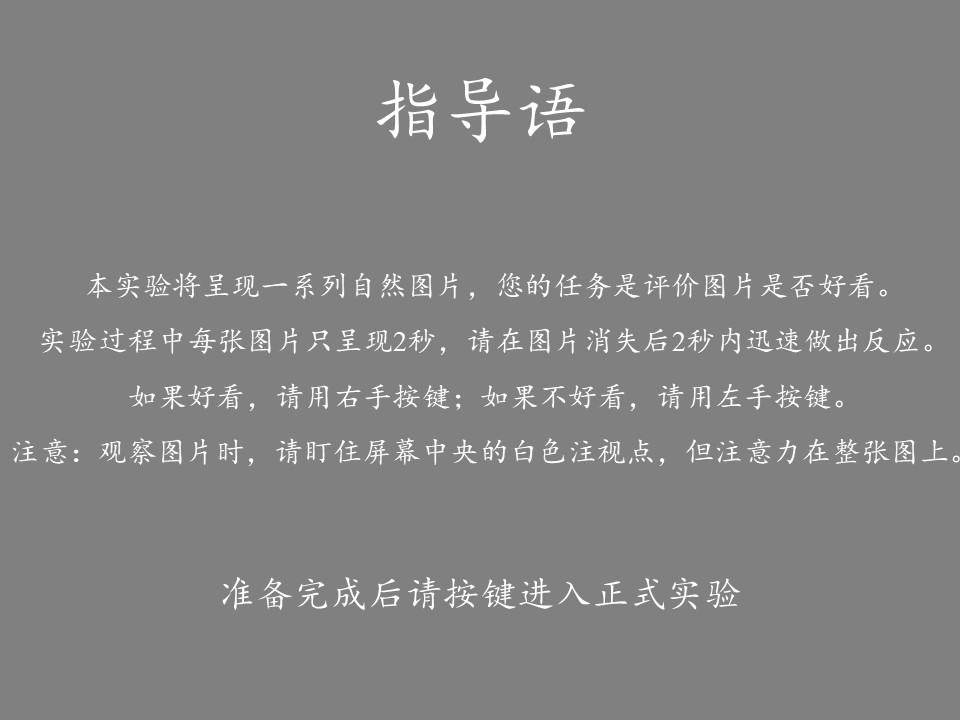
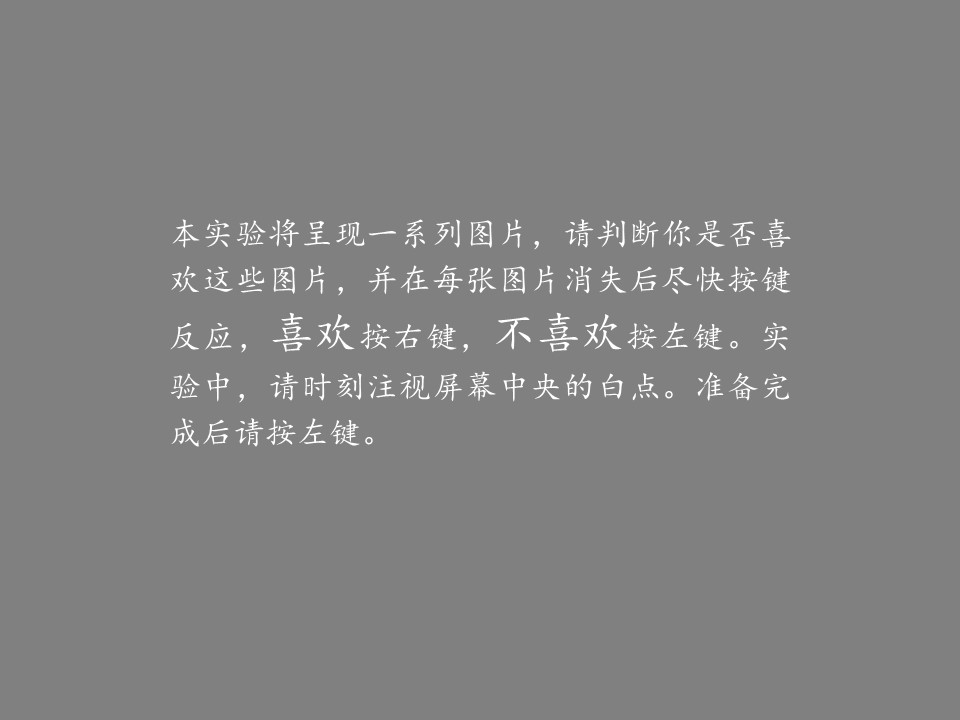
make final version of binMRI.m

diff --git a/binMRI.m b/binMRI.m
@@ -1,4 +1,4 @@
-function trial = binBrainImageNet_zzl(subID,sessID,runID)
+function trial = binMRI(subID,sessID,runID)
 % function [subject,task] = binMRI(subID,sessID,runID)
 % Brain ImageNet fMRI experiment stimulus procedure
 % subID, subjet ID, integer[1-20] 
@@ -11,9 +11,6 @@ function trial = binBrainImageNet_zzl(subID,sessID,runID)
 % if nargin < 1, runID = 1; end
 
 %% Check subject information
-% subID = 1;
-% sessID = 1;
-% runID = 1;
 imgAngle = 12;
 fixAngle = 0.2;
 % Check subject id
@@ -70,9 +67,11 @@ HideCursor;
 % Makes instruction texture
 picsFolderName = 'instruction';
 imgStart = sprintf('%s/%s', picsFolderName, 'instructionStart.jpg');
+imgReady = sprintf('%s/%s', picsFolderName, 'instructionReady.jpg');
 imgEnd = sprintf('%s/%s', picsFolderName, 'instructionBye.jpg');
 
 startTexture = Screen('MakeTexture', wptr, imread(imgStart));
+readyTexture = Screen('MakeTexture', wptr, imread(imgReady));
 endTexture = Screen('MakeTexture', wptr, imread(imgEnd));
 
 %% Load design matrix
@@ -110,6 +109,17 @@ end
 %% Show instruction
 Screen('DrawTexture', wptr, startTexture);
 Screen('Flip', wptr);
+% Wait ready signal from subject
+while KbCheck(); end
+while true
+    [keyIsDown,~,keyCode] = KbCheck();
+    if keyIsDown && keyCode(likeKey), break;
+    end
+end
+
+Screen('DrawTexture', wptr, readyTexture);
+Screen('Flip', wptr);
+
 % Wait trigger(S key) to begin the test
 while KbCheck(); end
 while true
@@ -120,28 +130,28 @@ while true
 end
 
 %% Run experiment
-onDur = 2; % on duration for a stimulus
+flipInterval = Screen('GetFlipInterval', wptr);% get dur of frame
+onDur = 2 - 0.5*flipInterval; % on duration for a stimulus
 offDur = 2; % off duration for a stimulus
 runDur = 476; % duration for a run
-beginDur = 2; % beigining fixation duration
+beginDur = 16; % beigining fixation duration
 endDur = 16; % ending fixation duration
 fixColor = [255 255 255];
 
 % Show begining fixation
 Screen('DrawDots', wptr, [xCenter,yCenter], fixSize, fixColor, [], 2);
-tFix = Screen('Flip',wptr);
+Screen('Flip',wptr);
 WaitSecs(beginDur);
 
+tStart = GetSecs;
 % Show stimulus
-for t = 1:5
+for t = 1:nStim
     % Show stimulus with fixation
-    tStart = GetSecs;
     Screen('DrawTexture', wptr, stimTexture(t));
     Screen('DrawDots', wptr, [xCenter,yCenter], fixSize, fixColor, [], 2);
     tStim = Screen('Flip',wptr);
     trial(t, 6) = tStim - tStart;
-    flipInterval = Screen('GetFlipInterval', wptr);
-    while GetSecs - tStim < onDur - 0.5*flipInterval
+    while GetSecs - tStim < onDur 
         [~, ~, keyCode] = KbCheck();
         if keyCode(escKey), sca; return; end
     end
@@ -171,7 +181,7 @@ for t = 1:5
         tEnd = runDur;
     end  
     
-    while GetSecs - tStim < tEnd - trial(t,1)
+    while GetSecs - tStart < tEnd
         [~, ~, keyCode] = KbCheck();
         if keyCode(escKey), sca; return; end
     end
@@ -202,7 +212,7 @@ if ~exist(sessDir,'dir')
     mkdir(sessDir)
 end
 fileName = fullfile(sessDir, ...
-    sprintf('sub%02d_sess%02d_run%2d.mat',subID,sessID, runID));
+    sprintf('sub%02d_sess%02d_run%02d.mat',subID,sessID, runID));
 fprintf('Data were saved to: %s\n',fileName);
 save(fileName,'trial');
 

diff --git a/generateDesignMatrix_zzl.m b/generateDesignMatrix_zzl.m
@@ -2,8 +2,9 @@
 % Organize both stimulus image and stimulus order information into
 % BrainImageNet(BIN) structure
 
+clc;clear;
 %% Directory setting
-stimDir =  '/nfs/e1/BrainImageNet/stim';
+stimDir =  'D:\fMRI\BrainImageNet\stim';
 imgDir = fullfile(stimDir,'images');
 designDir = fullfile(stimDir,'designMatrix');
 
@@ -14,8 +15,9 @@ fid = fopen(fullfile(designDir,'superClassMapping.csv'));
 C = textscan(fid, '%s %d %s %d','Headerlines',1, 'Delimiter',',');
 fclose(fid);
 classID = C{1};
-superClassID = C{2}; 
-superClassName = C{3}; 
+superClassID = C{2};
+className = C{3}; 
+superClassName = []; 
 
 nClass = 1000; 
 nSuperClass = 30;
@@ -37,7 +39,7 @@ for s = 1:nSession % session loop
     % Read par from optseq
     optSeqSuperClassFile = fullfile(designDir,'ExpsessionorderTR1',...
         sprintf('BIN-static-session-%03d.csv',s));
-    fid = fopen(file);
+    fid = fopen(optSeqSuperClassFile);
     optSeq = textscan(fid, '%d %d %d %d %s');
     fclose(fid);
 
@@ -52,8 +54,8 @@ end
 optSeqClass = optSeqSuperClass;
 for s = 1:nSession % session loop
     for c = 1:nSuperClass % class loop
-        superClassTrial = (optSeqSuperClass(:,s,2) == c-1);
-        classTrial = find(superClassID == c-1);       
+        superClassTrial = (optSeqSuperClass(:,s,2) == c);
+        classTrial = find(superClassID == c);       
         optSeqClass(superClassTrial,s,2) = classTrial(randperm(length(classTrial))) ;
     end
 end
@@ -61,12 +63,12 @@ end
 
 %% Align onset of trials to the first trial of each run
 nRun = 10;
+seq = 0:4:480;
+seq([6*[1:1:20],121]) = [];
+seq = seq(:);
+seq = repmat(seq, [10 1]);
 for s = 1:nSession
-    onset = reshape(optSeqClass(:,s,1),[],nRun);
-    for r = 1:nRun 
-        onset(:,r) = onset(:,r) - onset(1,r);
-    end
-    optSeqClass(:,s,1) = onset(:);
+    optSeqClass(:,s,1) = seq;
 end
 
 
@@ -80,4 +82,4 @@ BIN.paradigmSuperClass = optSeqSuperClass;
 BIN.paradigmClass = optSeqClass;
 
 % save BIN
-% save('BIN.mat', 'BIN');
+save(fullfile(designDir,'BIN.mat'), 'BIN');
